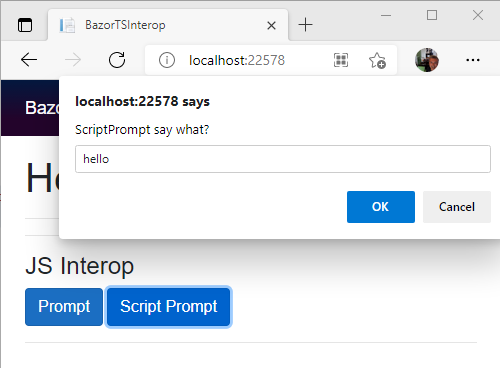
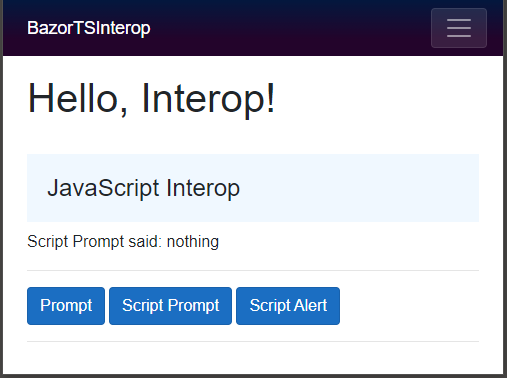
redo module section started

diff --git a/wwwroot/src/script.module.js b/wwwroot/src/script.module.js
@@ -1,11 +1,8 @@
-export function ScriptPrompt(message){
-    return prompt(message);
-}
-export function ModulePrompt(message) {
+export function ModulePrompt(message) {
     return ScriptPrompt(message);
 }
 
 export function ModulAlert(message) {
-    alert(message);
+    ScriptAlert(message);
 }
 

diff --git a/README.md b/README.md
@@ -124,11 +124,14 @@ This demo will only use the home page.<br>
 function ScriptPrompt(message){
     return prompt(message);
 }
+
+function ScriptAlert(message) {
+    alert(message);
+}
 ```
 
-> Static assets serve one global entry point defined by the method in file.
-> Other methods and data within file are private.
-> ScriptPrompt method will be callable from other JavaScript modules including isolated modules.
+> Methods ScriptPrompt and ScriptAlert will be loaded globally.<br>
+> Visible to other JavaScript modules including isolated modules.
 
 > Add 'script.js' as static asset in 'Index.html' after 'webassemly.js'.
 
@@ -140,17 +143,18 @@ function ScriptPrompt(message){
 ...
 </body>
 ```
-> Replace all of 'Index.razor' contents with following code snippets respectfully to add ScriptPrompt button and method. 
+> Replace all of 'Index.razor' contents with following code snippets respectfully to add ScriptPrompt and ScriptAlert buttons with action method. 
 
 ```html
 @page "/"
 @inject IJSRuntime JS
-<h1>Hello, Interop!</h1>
-<hr />@Message<hr />
-<h4>JS Interop</h4>
+@implements IAsyncDisposable
+<h1>Hello, Interop!</h1><br />
+<h4 style="background-color:aliceblue; padding:20px">JavaScript Interop</h4>
+@Message<hr />
 <button class="btn btn-primary" @onclick="@Prompt">Prompt</button>
 <button class="btn btn-primary" @onclick="@ScriptPrompt">Script Prompt</button>
-<hr>
+<button class="btn btn-primary" @onclick="@ScriptAlert">Script Alert</button><hr>
 ```
 ```c#
 @code {
@@ -169,12 +173,17 @@ function ScriptPrompt(message){
         Message = "Script Prompt: " + (String.IsNullOrEmpty(answer) ? "nothing" : answer);
         StateHasChanged();
     }
+
+    async void ScriptAlert()
+    {
+        await JS.InvokeVoidAsync("ScriptAlert", "Script Alert");
+    }
 }
 ```
 > Prompt demonstrates calling a browser API method.<br>
 > ScriptPrompt demonstrates calling a static JavaScript method.
 
->Run to ScreenShot static custom JavaScript method  ScriptPrompt.
+>Run to test JavaScript sript methods ScriptPrompt and ScriptAlert.
  
 &nbsp;&nbsp;&nbsp;&nbsp;![ScreenShot](readme/image6.png)
 
